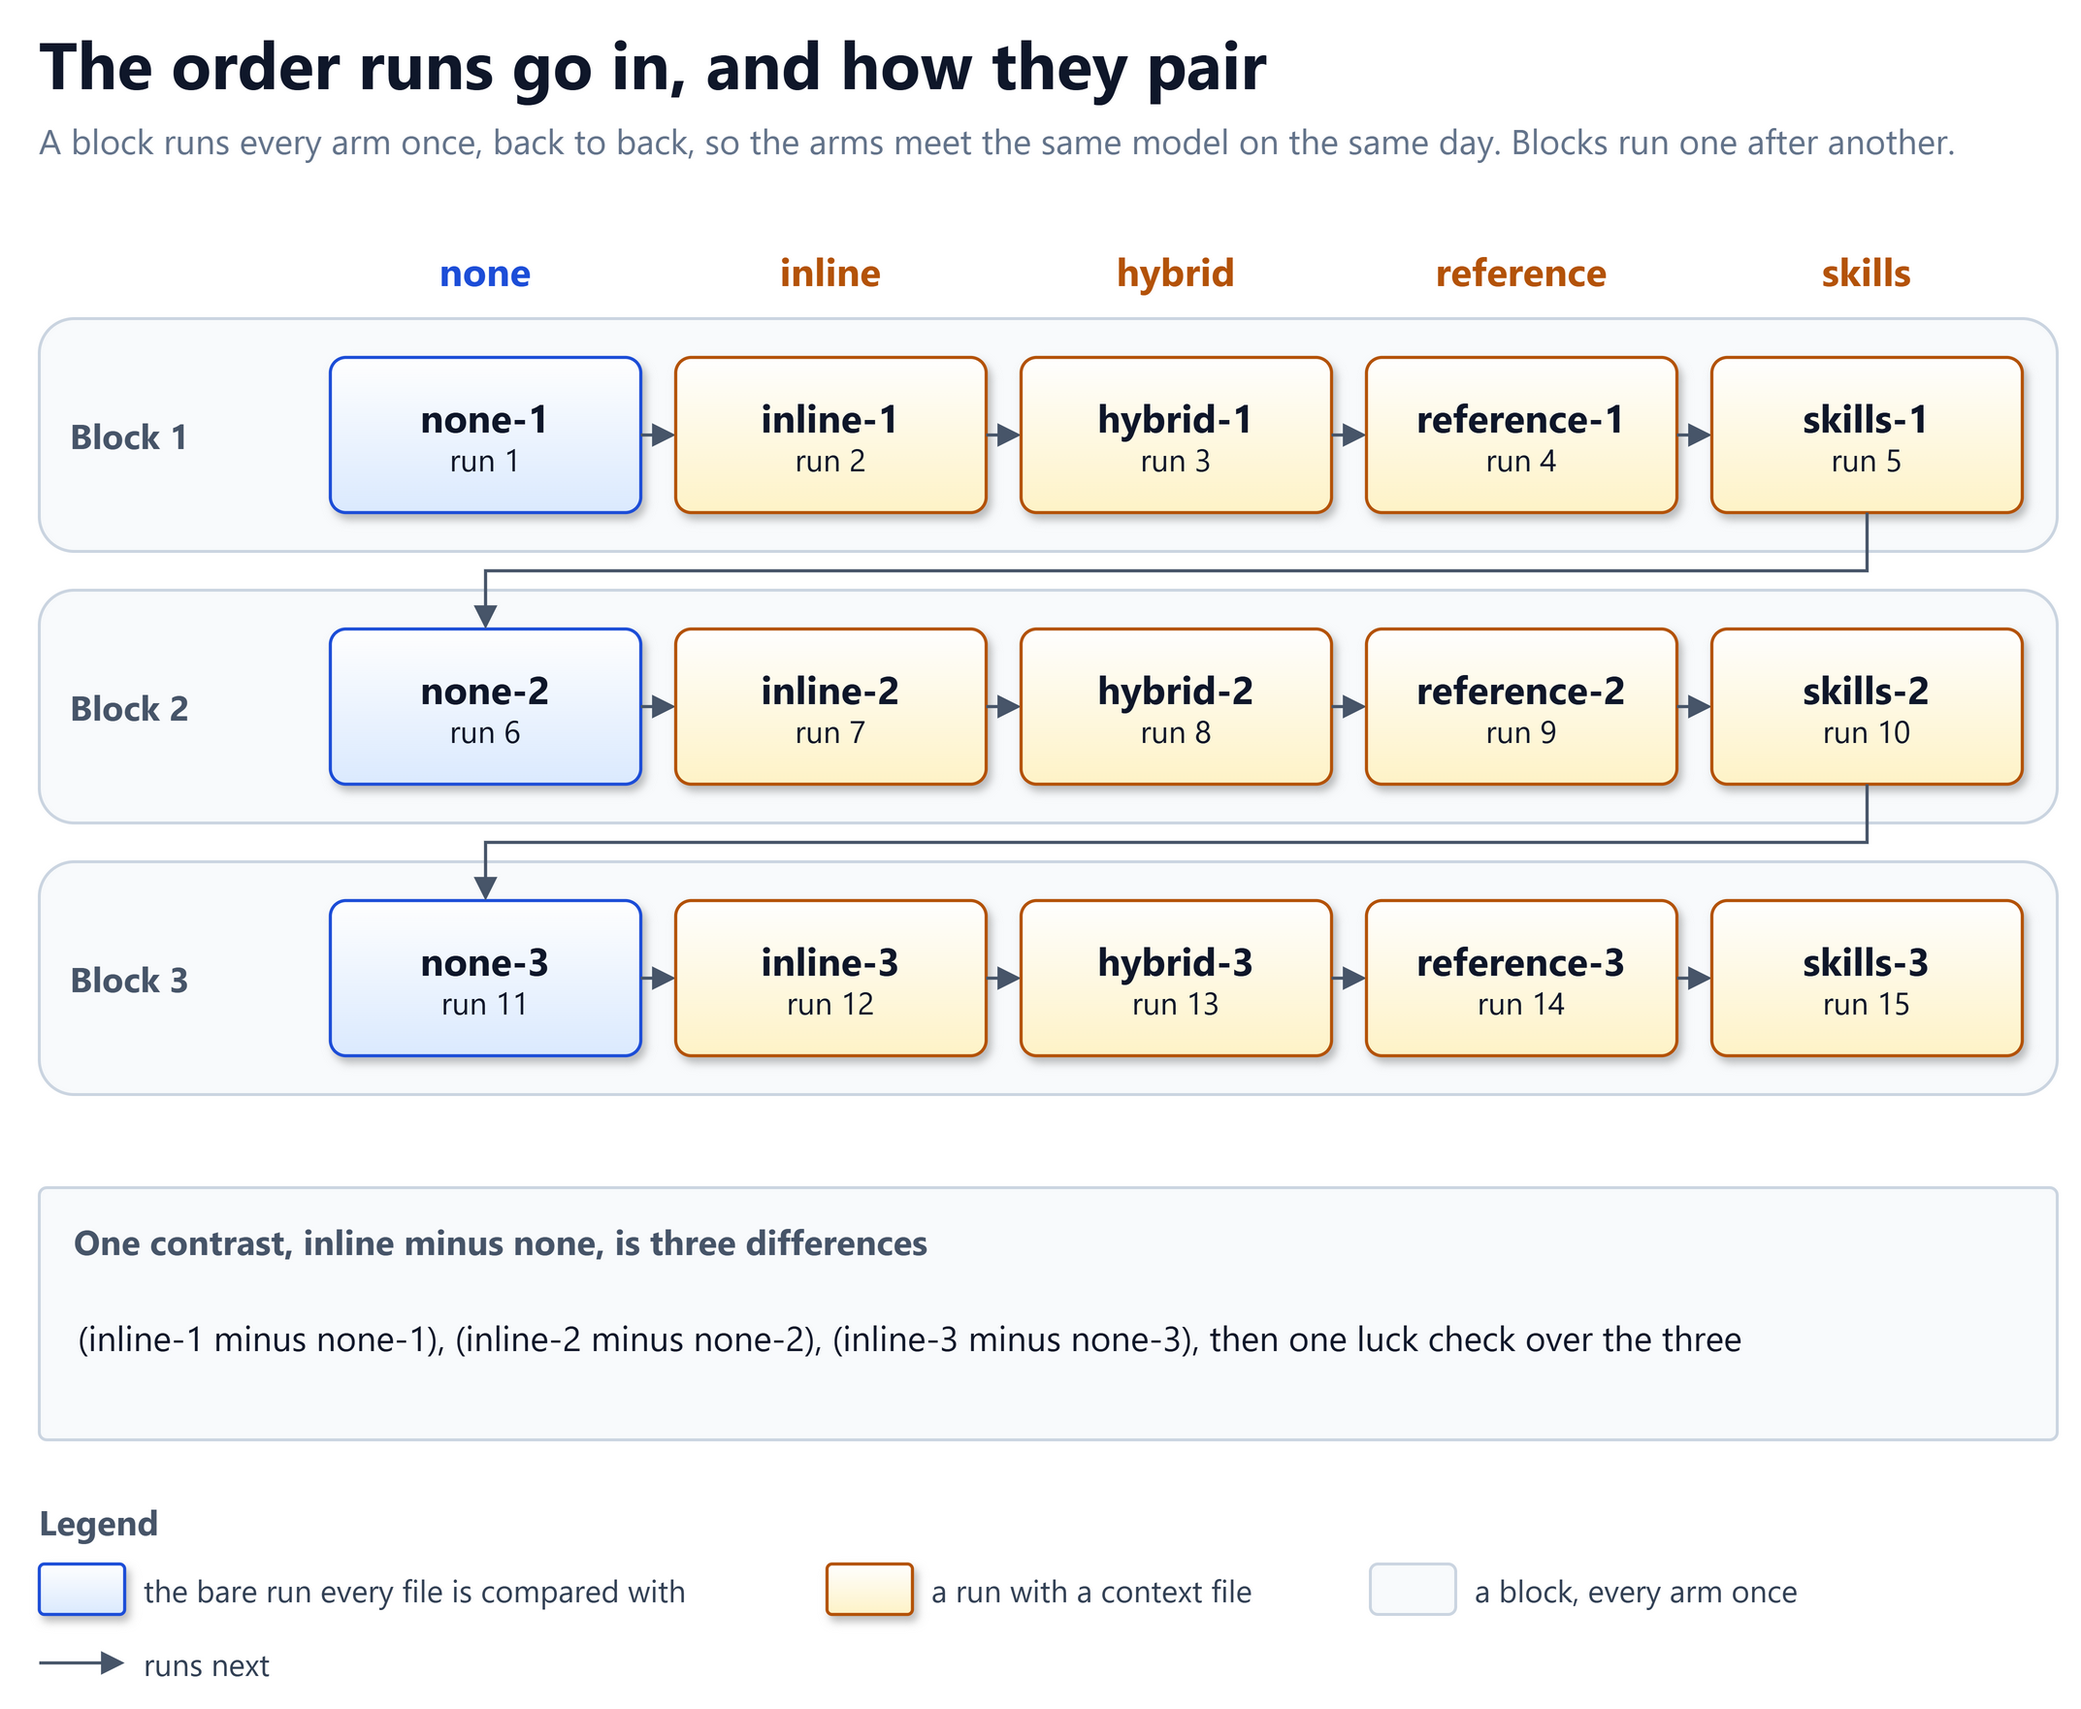
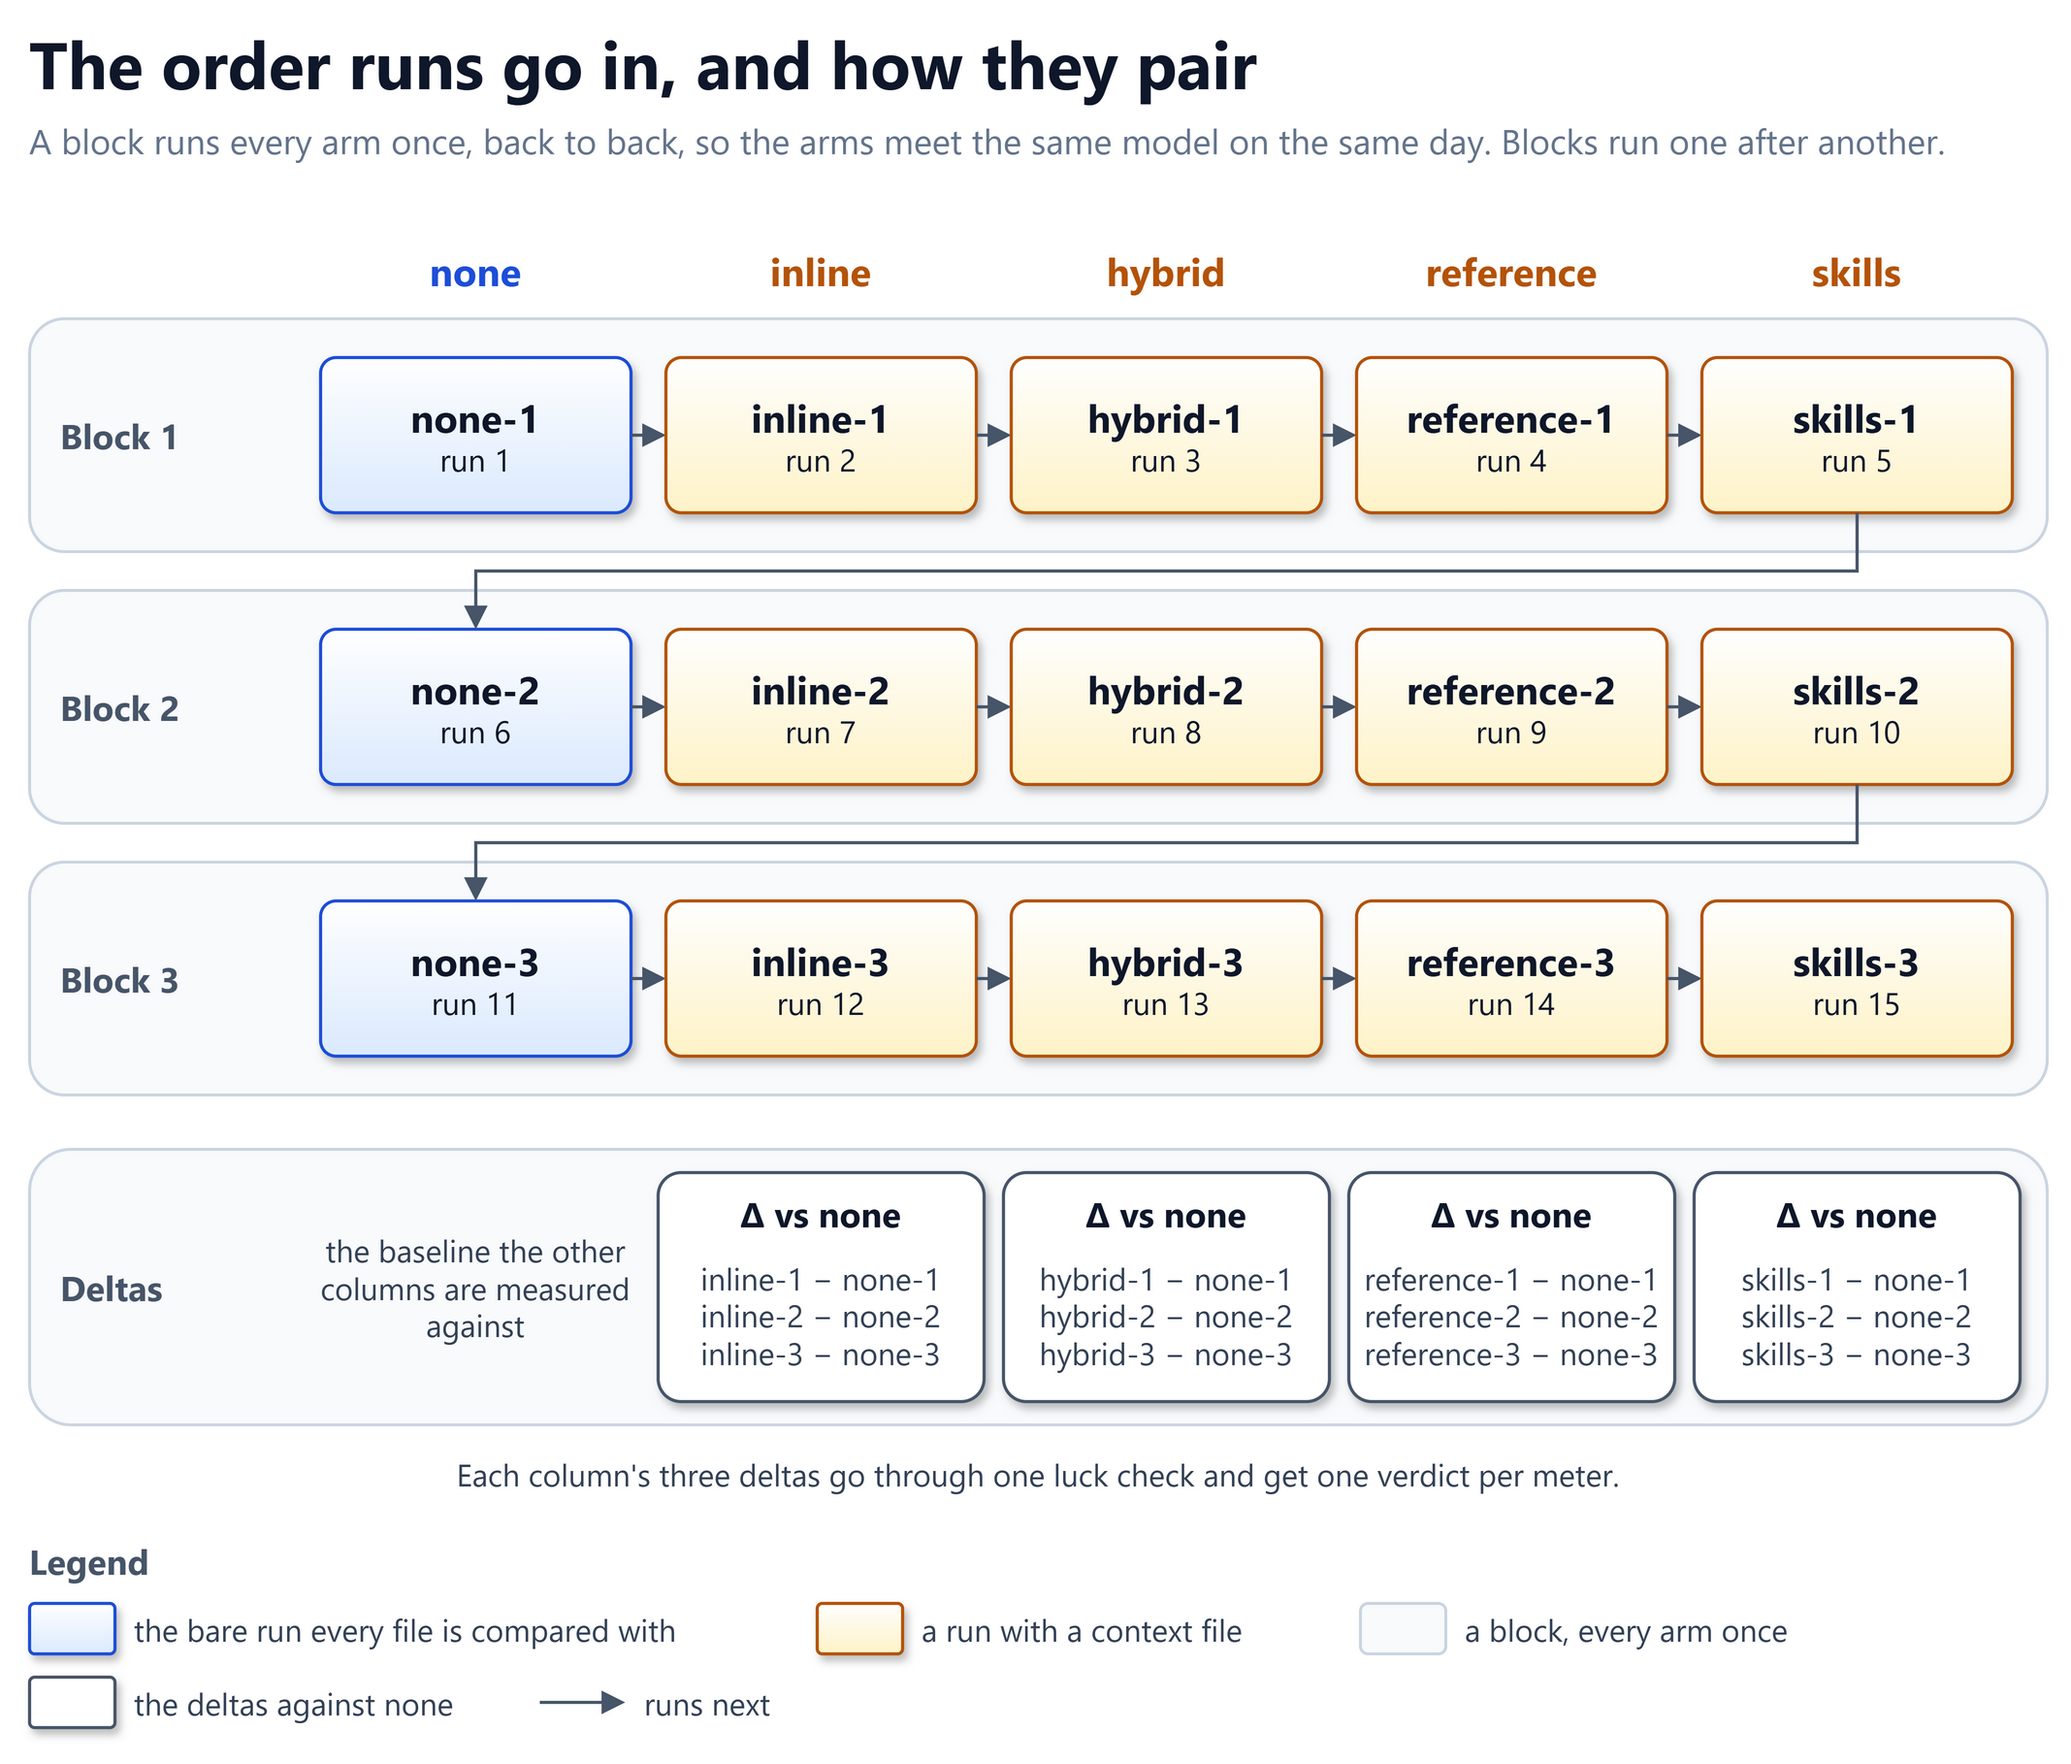
docs(primer): show the deltas under each arm in the run order
Claude-Session: https://claude.ai/code/session_01HVh8GVGd72WUJ3BvM7TXQn

diff --git a/docs/primer.md b/docs/primer.md
@@ -176,7 +176,7 @@ Section 5 explains the comparison and the verdicts.
 
 ### 5.1 Pairs, not averages
 
-![Fifteen runs in three blocks, five arms per block, run one after another: none-1, inline-1, hybrid-1, reference-1 and skills-1, then block 2, then block 3. A contrast such as inline minus none is three differences, inline-1 minus none-1, inline-2 minus none-2 and inline-3 minus none-3, with one interval over the three](diagrams/run-order.png)
+![Fifteen runs in a grid, one row per block and one column per arm: none, inline, hybrid, reference and skills. Each block runs every arm once, then the next block starts. Below the grid, each context-file arm has three deltas against none, such as inline-1 minus none-1, inline-2 minus none-2 and inline-3 minus none-3, which go through one luck check and get one verdict per meter](diagrams/run-order.png)
 
 A model's behaviour drifts from day to day. So the arms take turns: block 1
 runs every arm once, back to back, then block 2, then block 3. Runs in one
